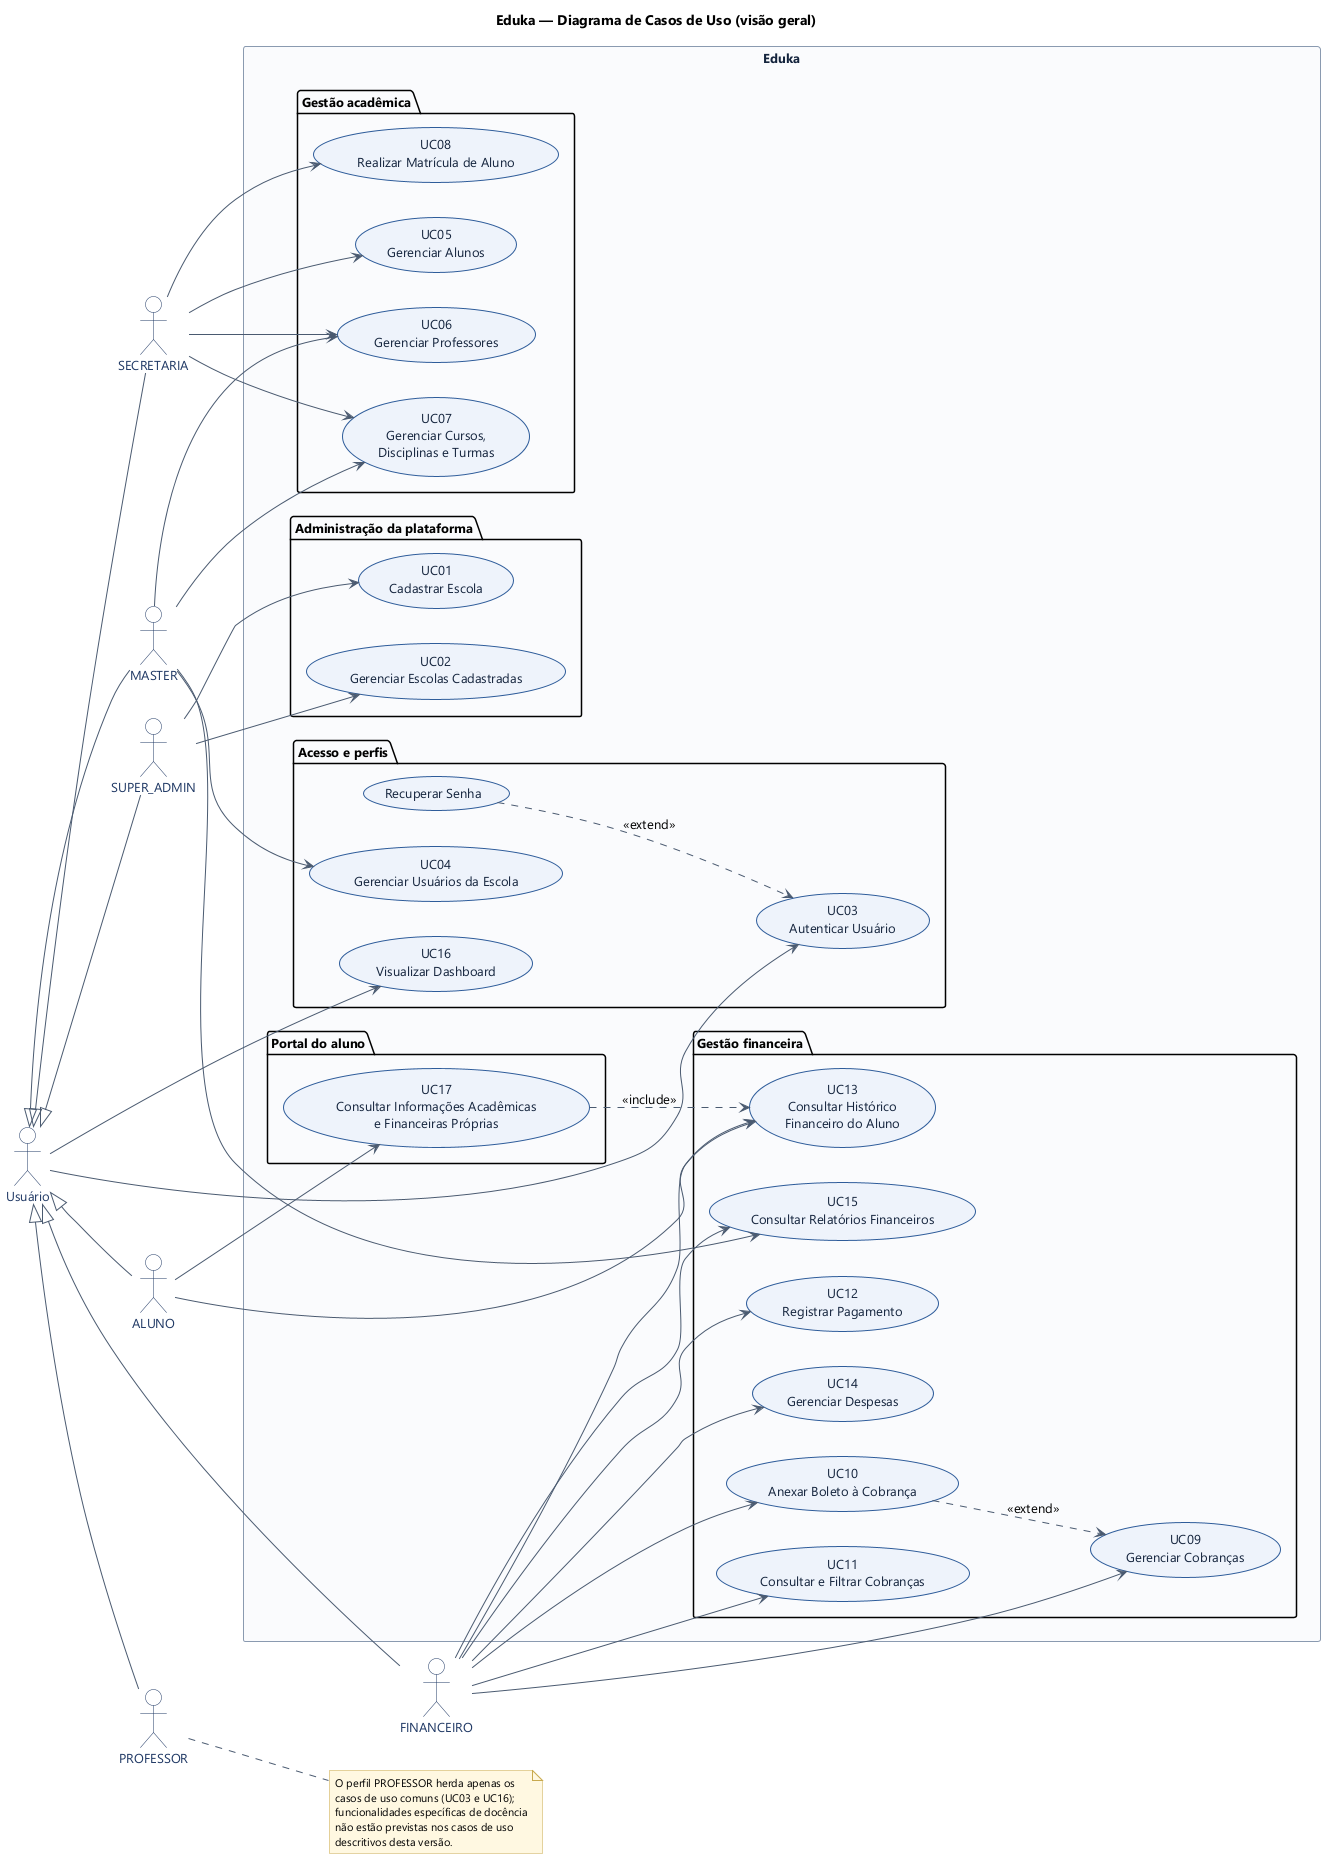
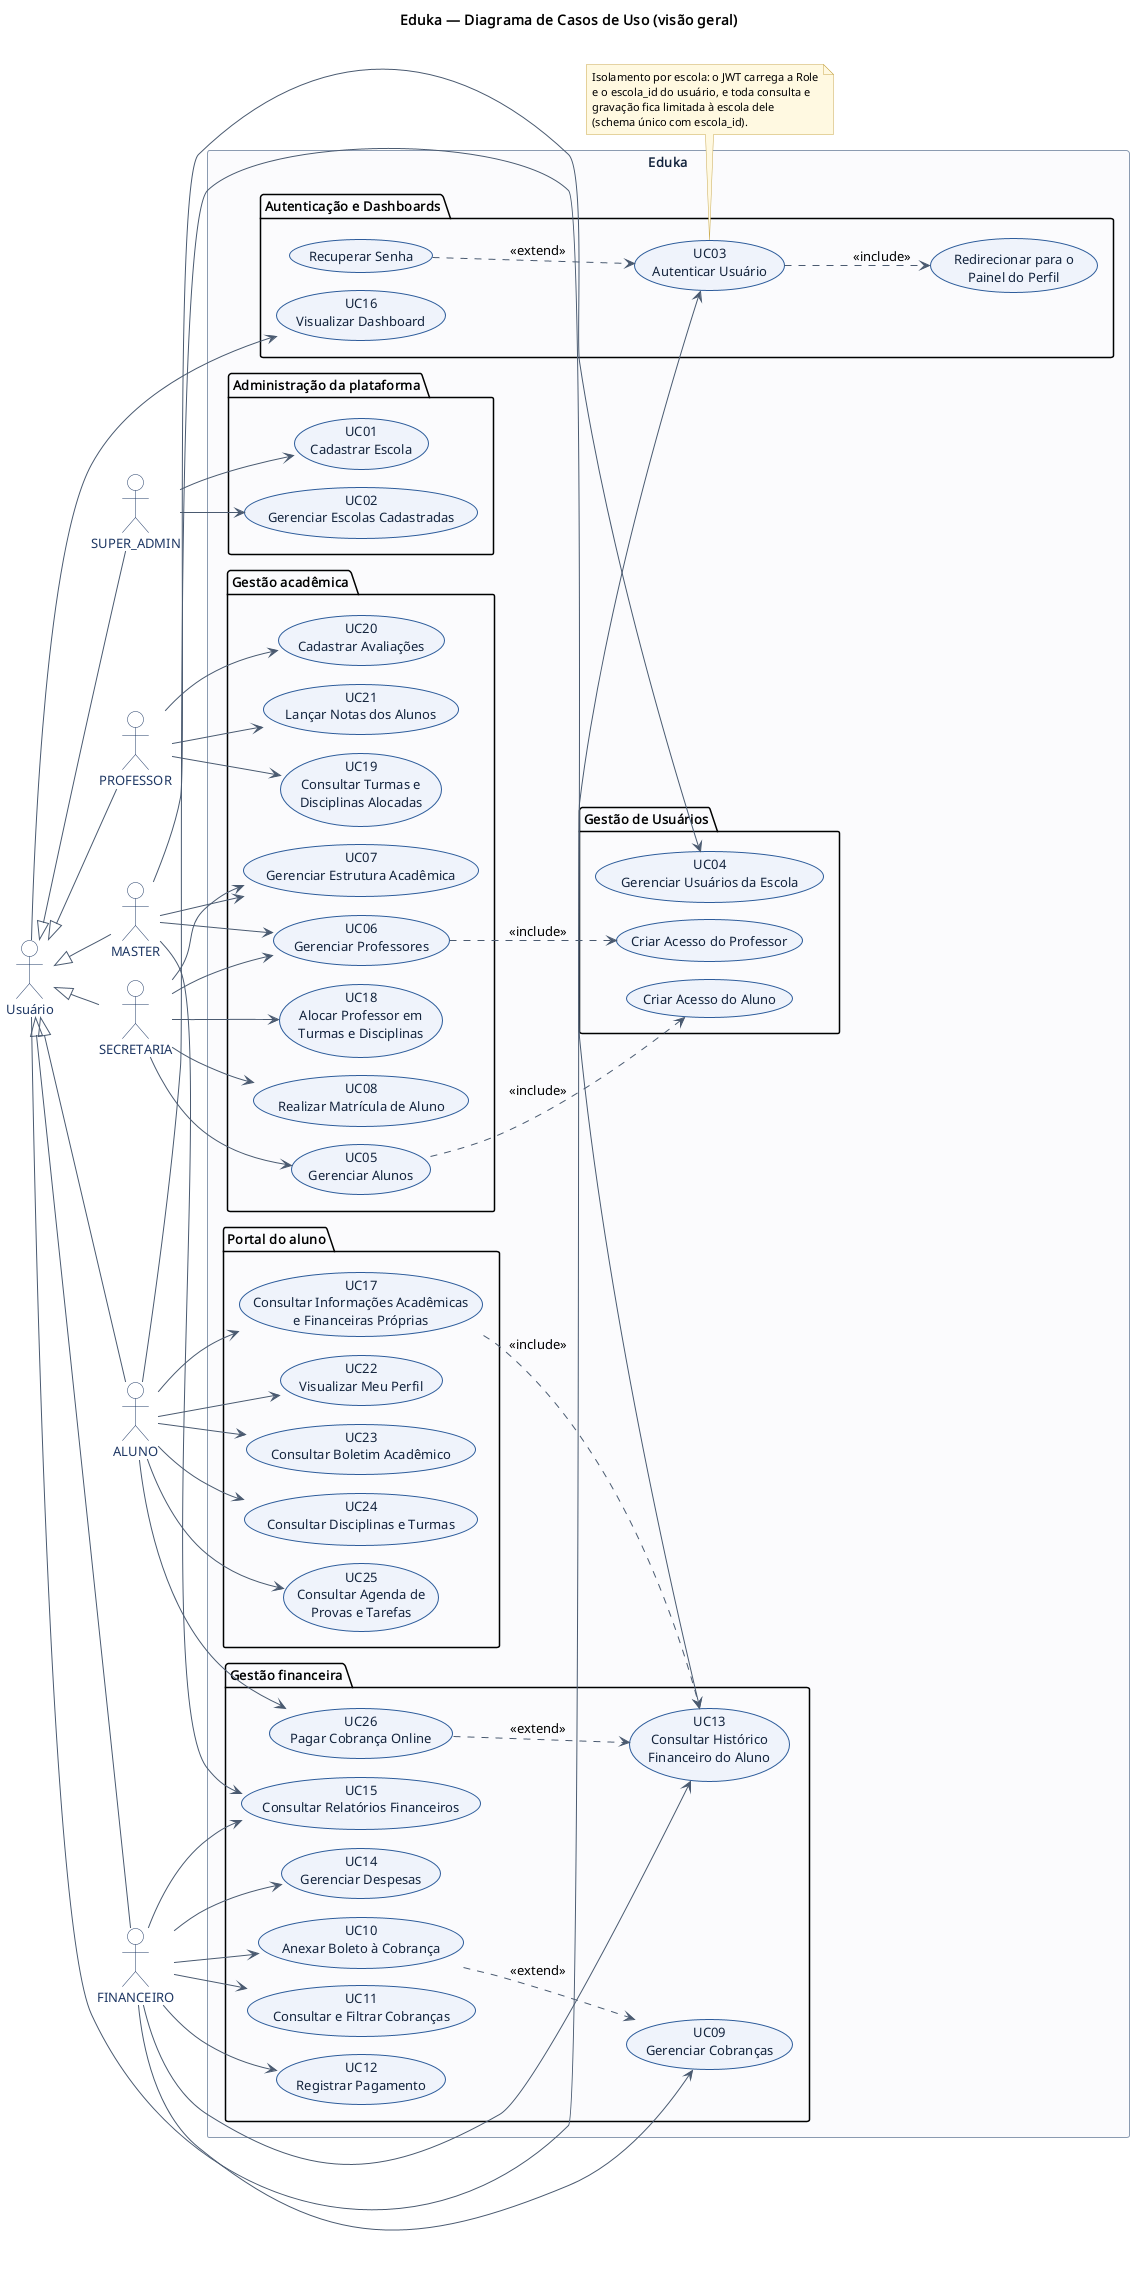
docs: atualiza diagrama de casos de uso

diff --git a/Artefatos/casos-de-uso-diagramas/README.md b/Artefatos/casos-de-uso-diagramas/README.md
@@ -2,17 +2,19 @@
 
 Diagramas UML de casos de uso equivalentes aos
 [casos de uso descritivos](../casos-de-uso-descritivo/Casos_de_Uso_Descritivos_Eduka.pdf)
-(UC01 a UC17). Os fontes estão em [PlantUML](https://plantuml.com) (`.puml`) e as imagens
-renderizadas em [`png/`](png/).
+(UC01 a UC17), acrescidos dos casos de uso da Sprint 2 (UC18 a UC26: alocação de
+professores, portal do professor, portal do aluno e pagamento online). Os fontes estão em
+[PlantUML](https://plantuml.com) (`.puml`) e as imagens renderizadas em [`png/`](png/).
 
 | Diagrama | Escopo | Casos de uso |
 |---|---|---|
-| [00-visao-geral.puml](00-visao-geral.puml) · [PNG](png/00-visao-geral.png) | Todos os atores e casos de uso do sistema | UC01–UC17 |
+| [00-visao-geral.puml](00-visao-geral.puml) · [PNG](png/00-visao-geral.png) | Todos os atores e casos de uso do sistema | UC01–UC26 |
 | [01-administracao-plataforma.puml](01-administracao-plataforma.puml) · [PNG](png/01-administracao-plataforma.png) | Administração da plataforma (SUPER_ADMIN) | UC01, UC02 |
-| [02-acesso-e-perfis.puml](02-acesso-e-perfis.puml) · [PNG](png/02-acesso-e-perfis.png) | Autenticação, gestão de usuários e dashboard | UC03, UC04, UC16 |
-| [03-gestao-academica.puml](03-gestao-academica.puml) · [PNG](png/03-gestao-academica.png) | Alunos, professores, estrutura acadêmica e matrícula | UC05–UC08 |
-| [04-gestao-financeira.puml](04-gestao-financeira.puml) · [PNG](png/04-gestao-financeira.png) | Cobranças, boletos, pagamentos, despesas e relatórios | UC09–UC15 |
-| [05-portal-do-aluno.puml](05-portal-do-aluno.puml) · [PNG](png/05-portal-do-aluno.png) | Consultas do próprio aluno | UC17 (+ UC13) |
+| [02-acesso-e-perfis.puml](02-acesso-e-perfis.puml) · [PNG](png/02-acesso-e-perfis.png) | Autenticação, gestão de usuários e dashboards por perfil | UC03, UC04, UC16 |
+| [03-gestao-academica.puml](03-gestao-academica.puml) · [PNG](png/03-gestao-academica.png) | Alunos, professores, estrutura acadêmica, alocação e matrícula | UC05–UC08, UC18 |
+| [04-gestao-financeira.puml](04-gestao-financeira.puml) · [PNG](png/04-gestao-financeira.png) | Cobranças, boletos, pagamentos, despesas e relatórios | UC09–UC15, UC26 |
+| [05-portal-do-aluno.puml](05-portal-do-aluno.puml) · [PNG](png/05-portal-do-aluno.png) | Consultas e pagamento do próprio aluno | UC17, UC22–UC26 (+ UC13) |
+| [06-portal-do-professor.puml](06-portal-do-professor.puml) · [PNG](png/06-portal-do-professor.png) | Turmas alocadas, avaliações e notas | UC19–UC21 |
 
 O arquivo [`_estilo.puml`](_estilo.puml) contém apenas a configuração visual comum, incluída
 pelos demais diagramas.
@@ -25,24 +27,50 @@ Todos os perfis especializam o ator abstrato **Usuário**, que concentra os caso
 | Ator | Casos de uso como ator primário |
 |---|---|
 | SUPER_ADMIN | UC01, UC02 |
-| MASTER | UC04; UC06, UC07 e UC15 (compartilhados) |
-| SECRETARIA | UC05, UC06, UC07, UC08 |
+| MASTER | UC04; UC06, UC07 e UC15 (compartilhados); dashboard da escola |
+| SECRETARIA | UC05, UC06, UC07, UC08, UC18; dashboard da secretaria |
 | FINANCEIRO | UC09, UC10, UC11, UC12, UC14, UC15; secundário em UC13 |
-| ALUNO | UC13, UC17 |
-| PROFESSOR | apenas os casos de uso herdados de Usuário |
+| PROFESSOR | UC19, UC20, UC21; dashboard do professor |
+| ALUNO | UC13, UC17, UC22, UC23, UC24, UC25, UC26 |
 
-> O perfil PROFESSOR não possui casos de uso específicos nos descritivos desta versão;
-> ele aparece no diagrama para manter a hierarquia de perfis coerente com UC04.
+## Casos de uso da Sprint 2
+
+| UC | Caso de uso | Ator | Requisito |
+|---|---|---|---|
+| UC18 | Alocar Professor em Turmas e Disciplinas | SECRETARIA | RF10 |
+| UC19 | Consultar Turmas e Disciplinas Alocadas | PROFESSOR | RF10 |
+| UC20 | Cadastrar Avaliações | PROFESSOR | RF25 |
+| UC21 | Lançar Notas dos Alunos | PROFESSOR | RF25 |
+| UC22 | Visualizar Meu Perfil | ALUNO | RF08 |
+| UC23 | Consultar Boletim Acadêmico | ALUNO | RF25 |
+| UC24 | Consultar Disciplinas e Turmas | ALUNO | RF25 |
+| UC25 | Consultar Agenda de Provas e Tarefas | ALUNO | RF25 |
+| UC26 | Pagar Cobrança Online | ALUNO | RNF08.2 |
+
+Casos de uso existentes também foram ajustados: UC03 passa a incluir *Redirecionar para o
+Painel do Perfil*; UC05 e UC06 incluem a criação do acesso do aluno e do professor; UC07
+passa a abranger períodos letivos; UC08 ganha a extensão *Atualizar Status da Matrícula*;
+UC16 é especializado nos dashboards da escola, da secretaria e do professor; e o MASTER
+passa a gerenciar apenas usuários SECRETARIA e FINANCEIRO. A associação de professores a
+turmas, antes incluída em UC06, virou o caso de uso próprio UC18.
+
+Todos os casos de uso respeitam o isolamento por escola: o JWT carrega a Role e o
+`escola_id` do usuário, e toda consulta e gravação é limitada à escola dele (schema único
+com `escola_id`).
+
+Fora do escopo desta versão: CRUD de Responsável e diário de aula.
 
 ## Convenções de notação
 
 - **Generalização de ator** (`<|--`): perfis que herdam os casos de uso comuns de *Usuário*.
+- **Generalização de caso de uso**: variantes de um caso de uso genérico (ex.: os
+  dashboards da escola, da secretaria e do professor especializam UC16).
 - **`<<include>>`**: comportamento sempre executado como parte do caso de uso base
-  (ex.: UC17 inclui UC13).
+  (ex.: UC17 inclui UC13; UC06 inclui *Criar Acesso do Professor*).
 - **`<<extend>>`**: comportamento opcional ou condicional derivado dos fluxos alternativos
   dos descritivos (ex.: *Recuperar Senha* estende UC03; *Cancelar Cobrança* estende UC09).
 - **Dependência rotulada `pré-condição`**: caso de uso cuja execução depende de dados
-  produzidos por outro (ex.: UC08 depende de UC05 e UC07). Não é um relacionamento UML
+  produzidos por outro (ex.: UC08 depende de UC05 e UC07; UC19 depende de UC18). Não é um relacionamento UML
   normativo, e sim a representação gráfica das pré-condições descritas nos casos de uso.
 - Casos de uso sem identificador `UCxx` representam fluxos alternativos dos descritivos
   promovidos a extensões, para tornar o diagrama legível sem inventar requisitos novos.
@@ -55,4 +83,6 @@ As imagens em `png/` já estão versionadas. Para regerá-las após editar um `.
 # VS Code: extensão "PlantUML" (Alt+D para pré-visualizar)
 # ou via jar oficial (requer Java 8+):
 java -jar plantuml.jar -tpng -charset UTF-8 -o png *.puml
+# sem Graphviz instalado, use o layout interno do PlantUML:
+java -jar plantuml.jar -Playout=smetana -tpng -charset UTF-8 -o png *.puml
 ```
